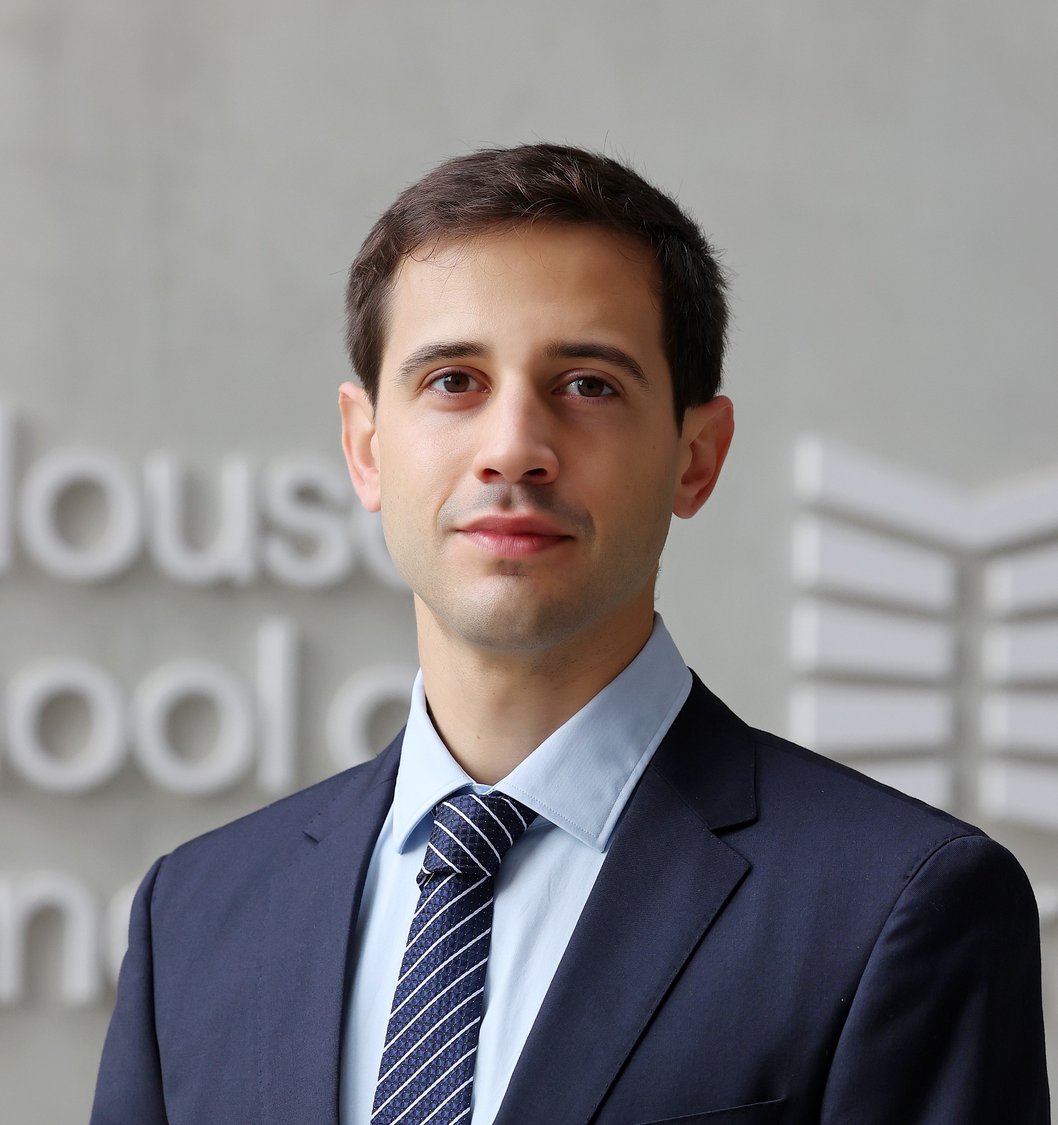
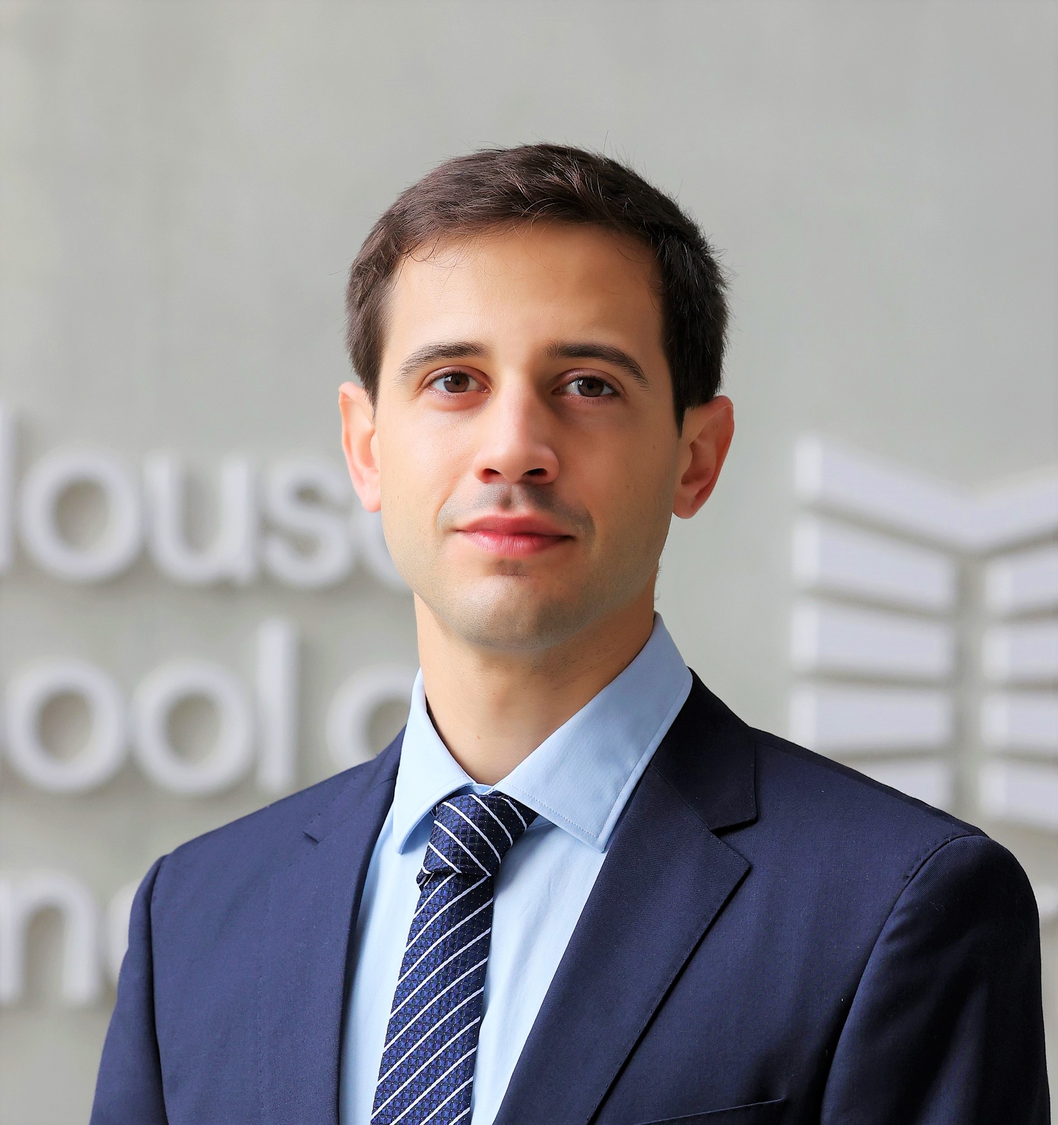
edited photo

diff --git a/author/fernando-stipanicic/index.html b/author/fernando-stipanicic/index.html
@@ -610,7 +610,7 @@
 
       
       
-      <img class="avatar avatar-circle" src="/author/fernando-stipanicic/avatar_hubabf177d2235fcf84c906d1f130c1a56_948622_270x270_fill_q90_lanczos_center.jpg" alt="Fernando Stipanicic">
+      <img class="avatar avatar-circle" src="/author/fernando-stipanicic/avatar_hu037ffa2c1a2de8dd9a5908bb565c002e_959065_270x270_fill_q90_lanczos_center.jpg" alt="Fernando Stipanicic">
       
 
       <div class="portrait-title">

diff --git a/index.html b/index.html
@@ -676,7 +676,7 @@
 
       
       
-      <img class="avatar avatar-circle" src="/author/fernando-stipanicic/avatar_hubabf177d2235fcf84c906d1f130c1a56_948622_270x270_fill_q90_lanczos_center.jpg" alt="Fernando Stipanicic">
+      <img class="avatar avatar-circle" src="/author/fernando-stipanicic/avatar_hu037ffa2c1a2de8dd9a5908bb565c002e_959065_270x270_fill_q90_lanczos_center.jpg" alt="Fernando Stipanicic">
       
 
       <div class="portrait-title">
